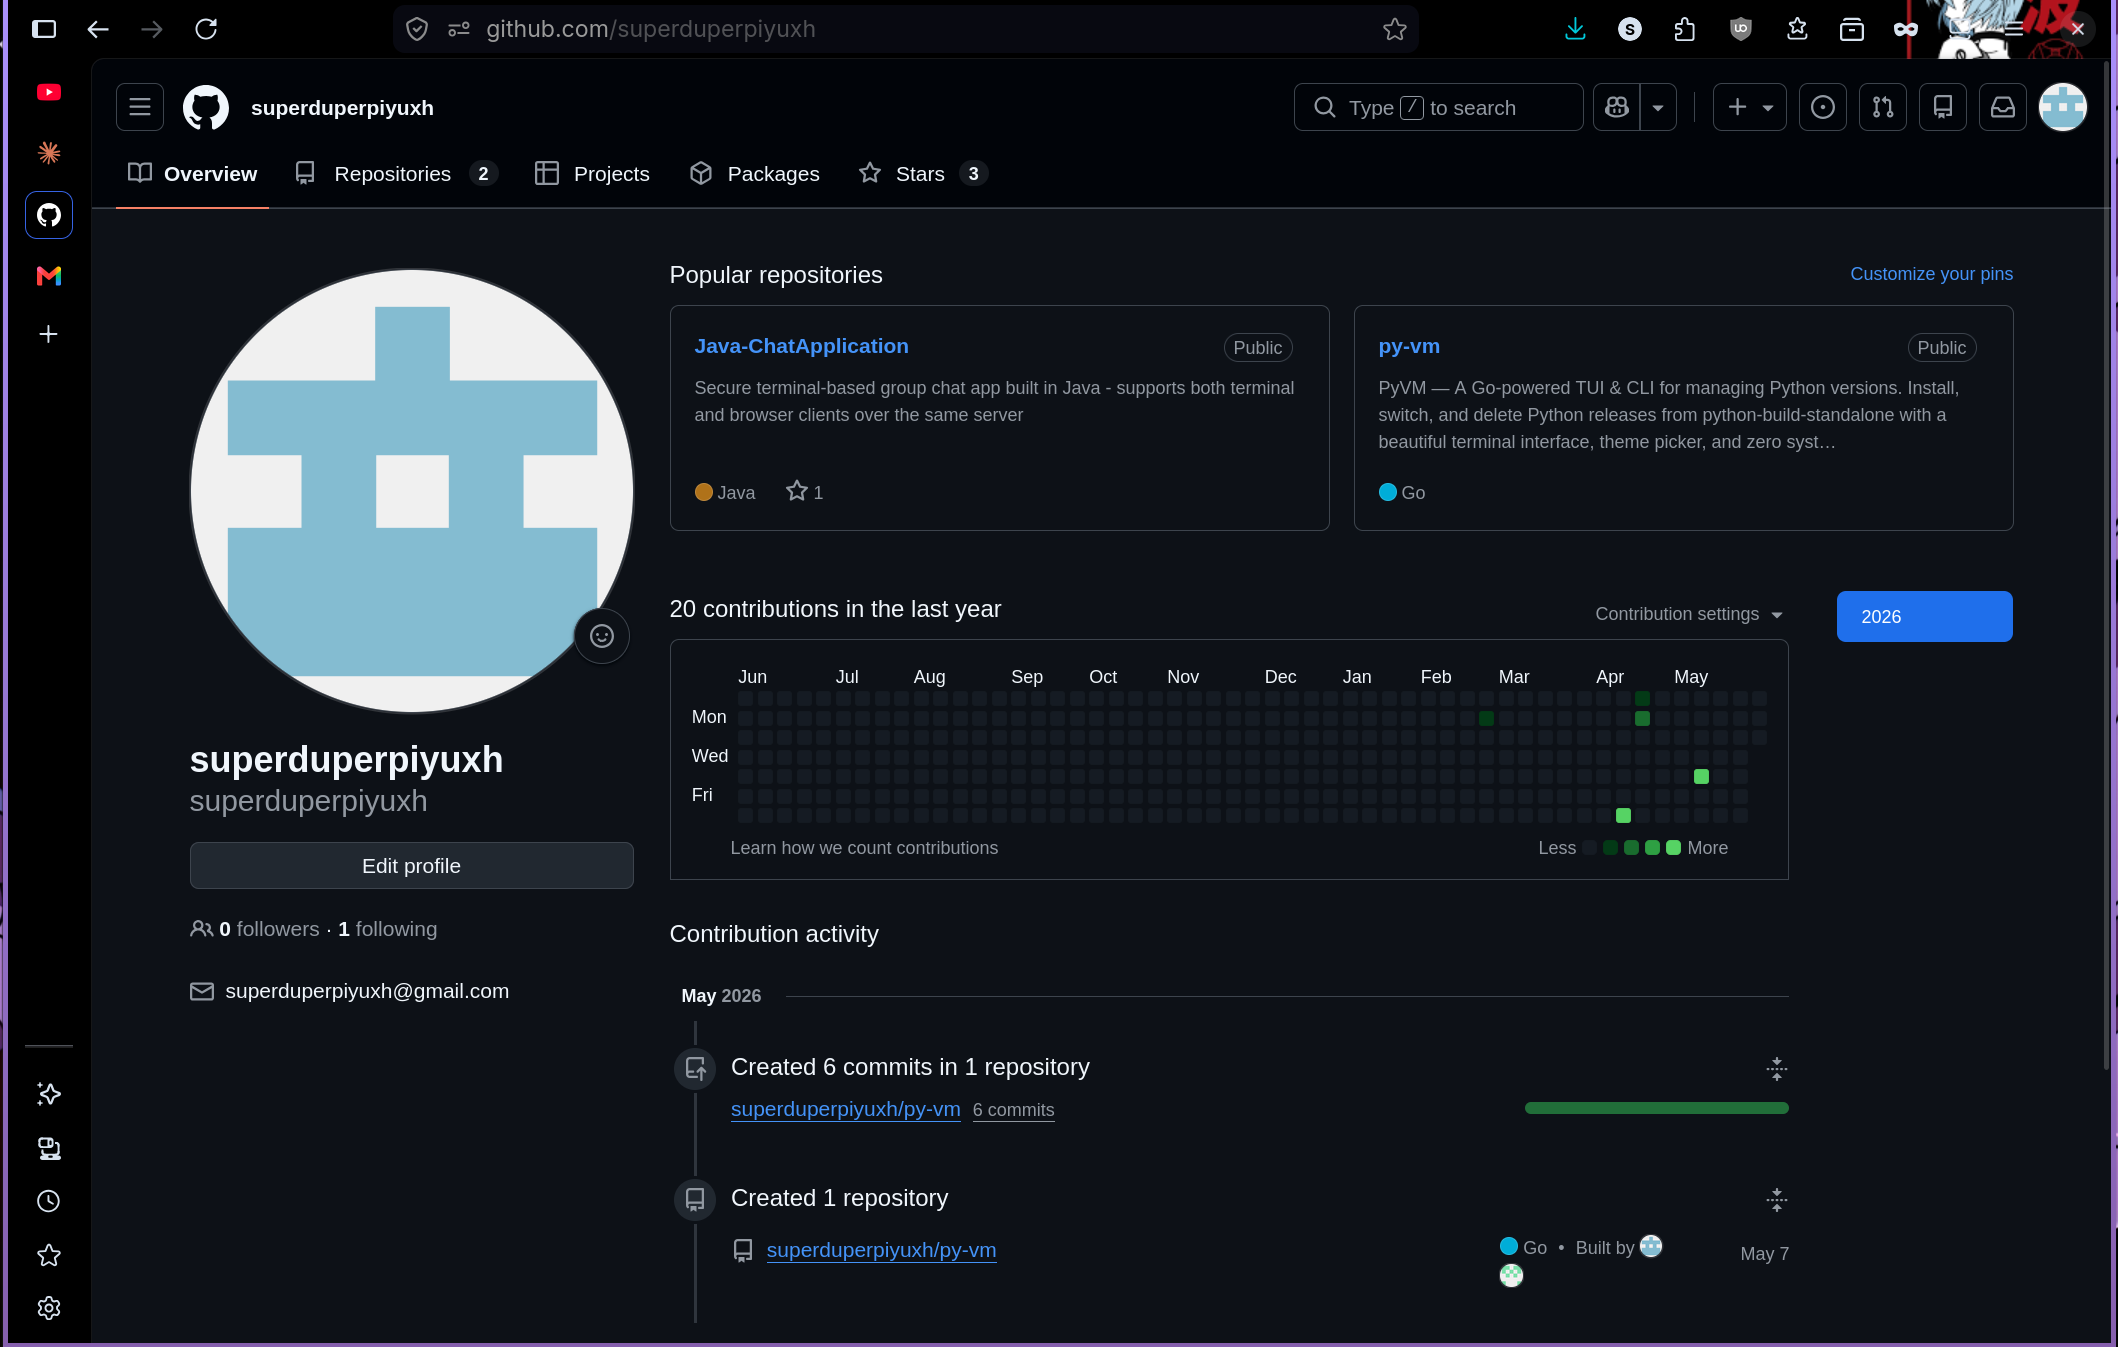
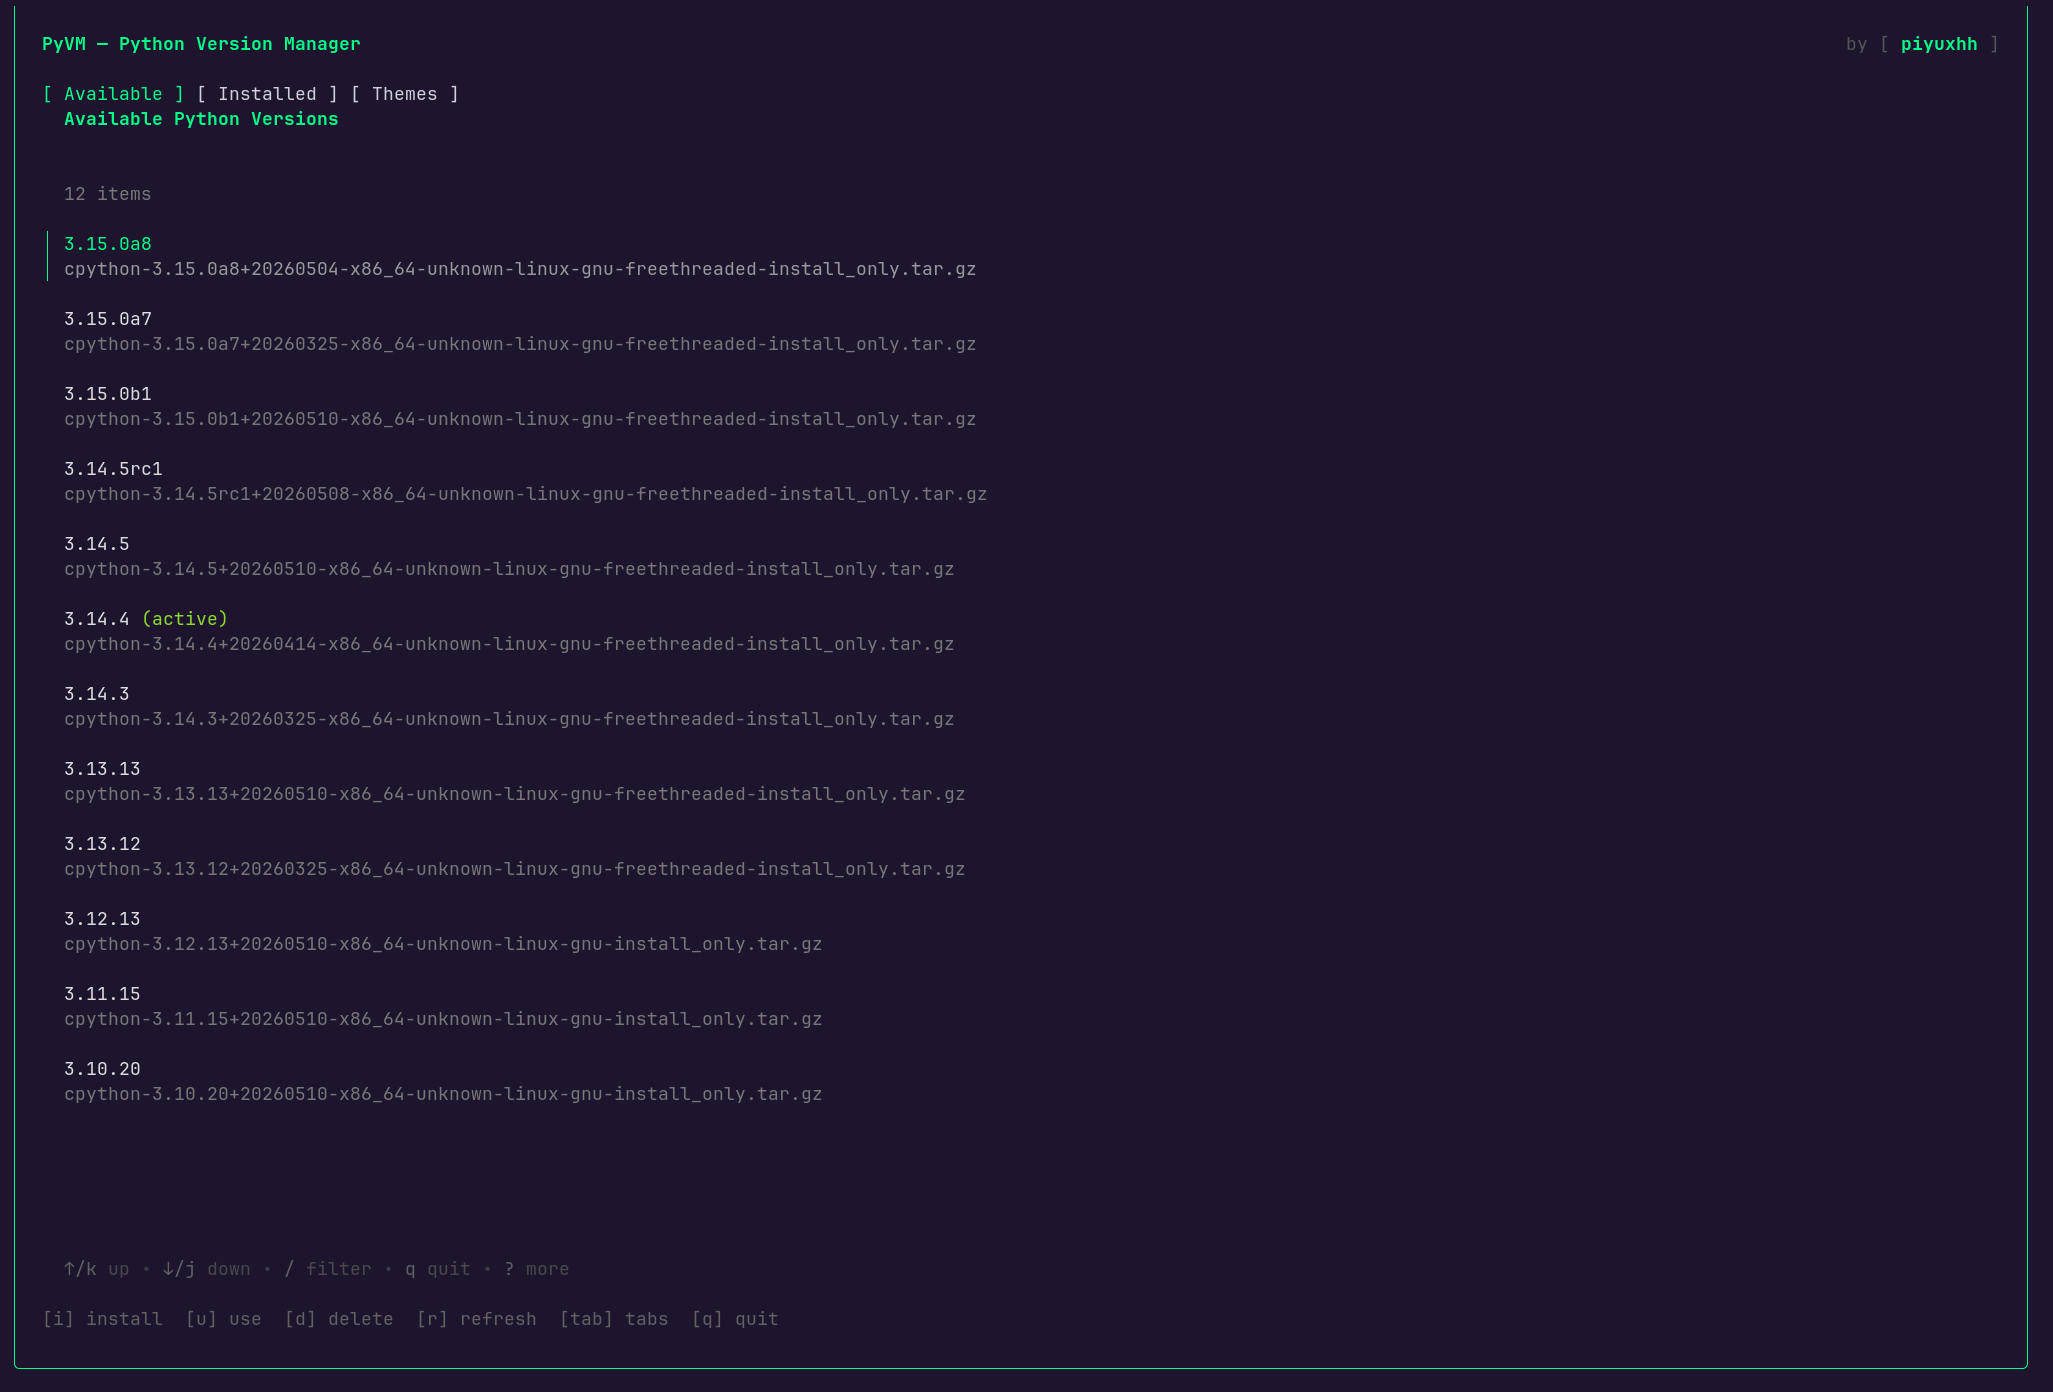
docs: update preview screenshot and remove contributing section

diff --git a/README.md b/README.md
@@ -85,17 +85,6 @@ Simply run `pyvm` without any arguments to enter the visual manager:
 
 ---
 
-## 🤝 Contributing
-Contributions are welcome! Feel free to open an issue or submit a pull request.
-
-1. Fork the Project
-2. Create your Feature Branch (`git checkout -b feature/AmazingFeature`)
-3. Commit your Changes (`git commit -m 'Add some AmazingFeature'`)
-4. Push to the Branch (`git push origin feature/AmazingFeature`)
-5. Open a Pull Request
-
----
-
 ## 📜 License
 Distributed under the MIT License. See `LICENSE` for more information.
 
